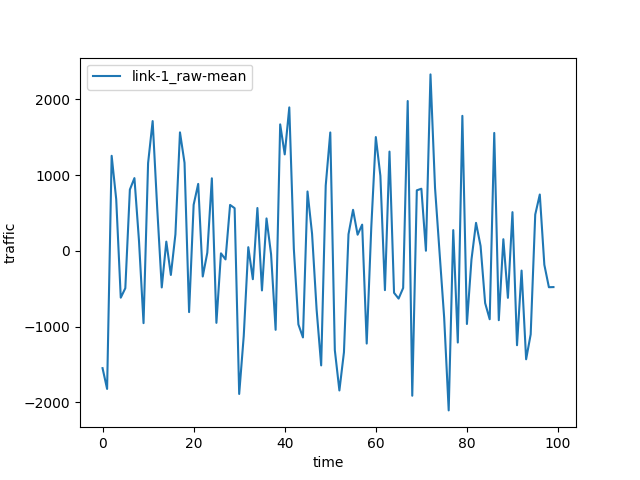
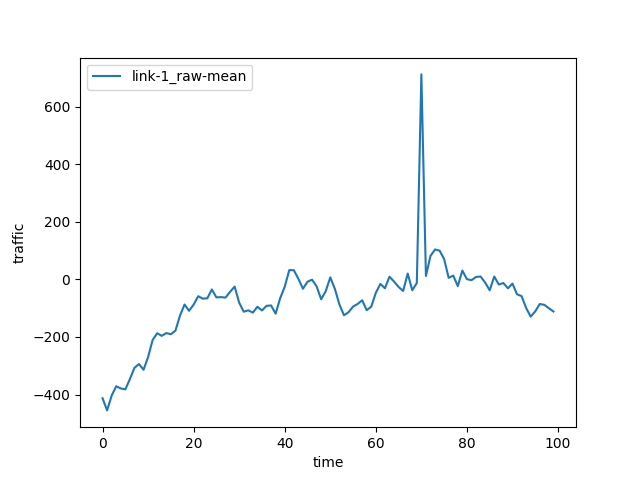
fixed figures of pca

diff --git a/exercise2/pca-for-anomaly-deteciton.py b/exercise2/pca-for-anomaly-deteciton.py
@@ -61,7 +61,6 @@ def plot_data(X, title):
 
 X = np.random.multivariate_normal([mu] * cov.shape[0], cov, N_data)
 X_mean = np.average(X, 0)
-plot_data(X - X_mean, title="link-1_raw-mean.png")
 
 
 def ewma_smoothing(X, alpha=0.03):
@@ -77,7 +76,6 @@ def ewma_smoothing(X, alpha=0.03):
 
 
 X_smoothed = ewma_smoothing(X)
-plot_data(X_smoothed, title="link-1_smoothed.png")
 
 # 3. データから時間平均を引き、r つの固有ベクトルで部分空間にマップする
 #    異常なトラフィックもこの時に生成
@@ -95,6 +93,7 @@ def map_ortho_comp(R, x_t):
 pca = PCA()
 pca.fit(X - X_mean)
 X[abnormal_time][abnormal_link] += 700
+plot_data(X - X_mean, title="link-1_raw-mean.png")
 R = pca.components_[:r, :].T
 y_tilde = np.array([map_ortho_comp(R, x_t) for x_t in (X - X_mean)])
 plot_data(y_tilde, title="link-1_ytilde.png")
